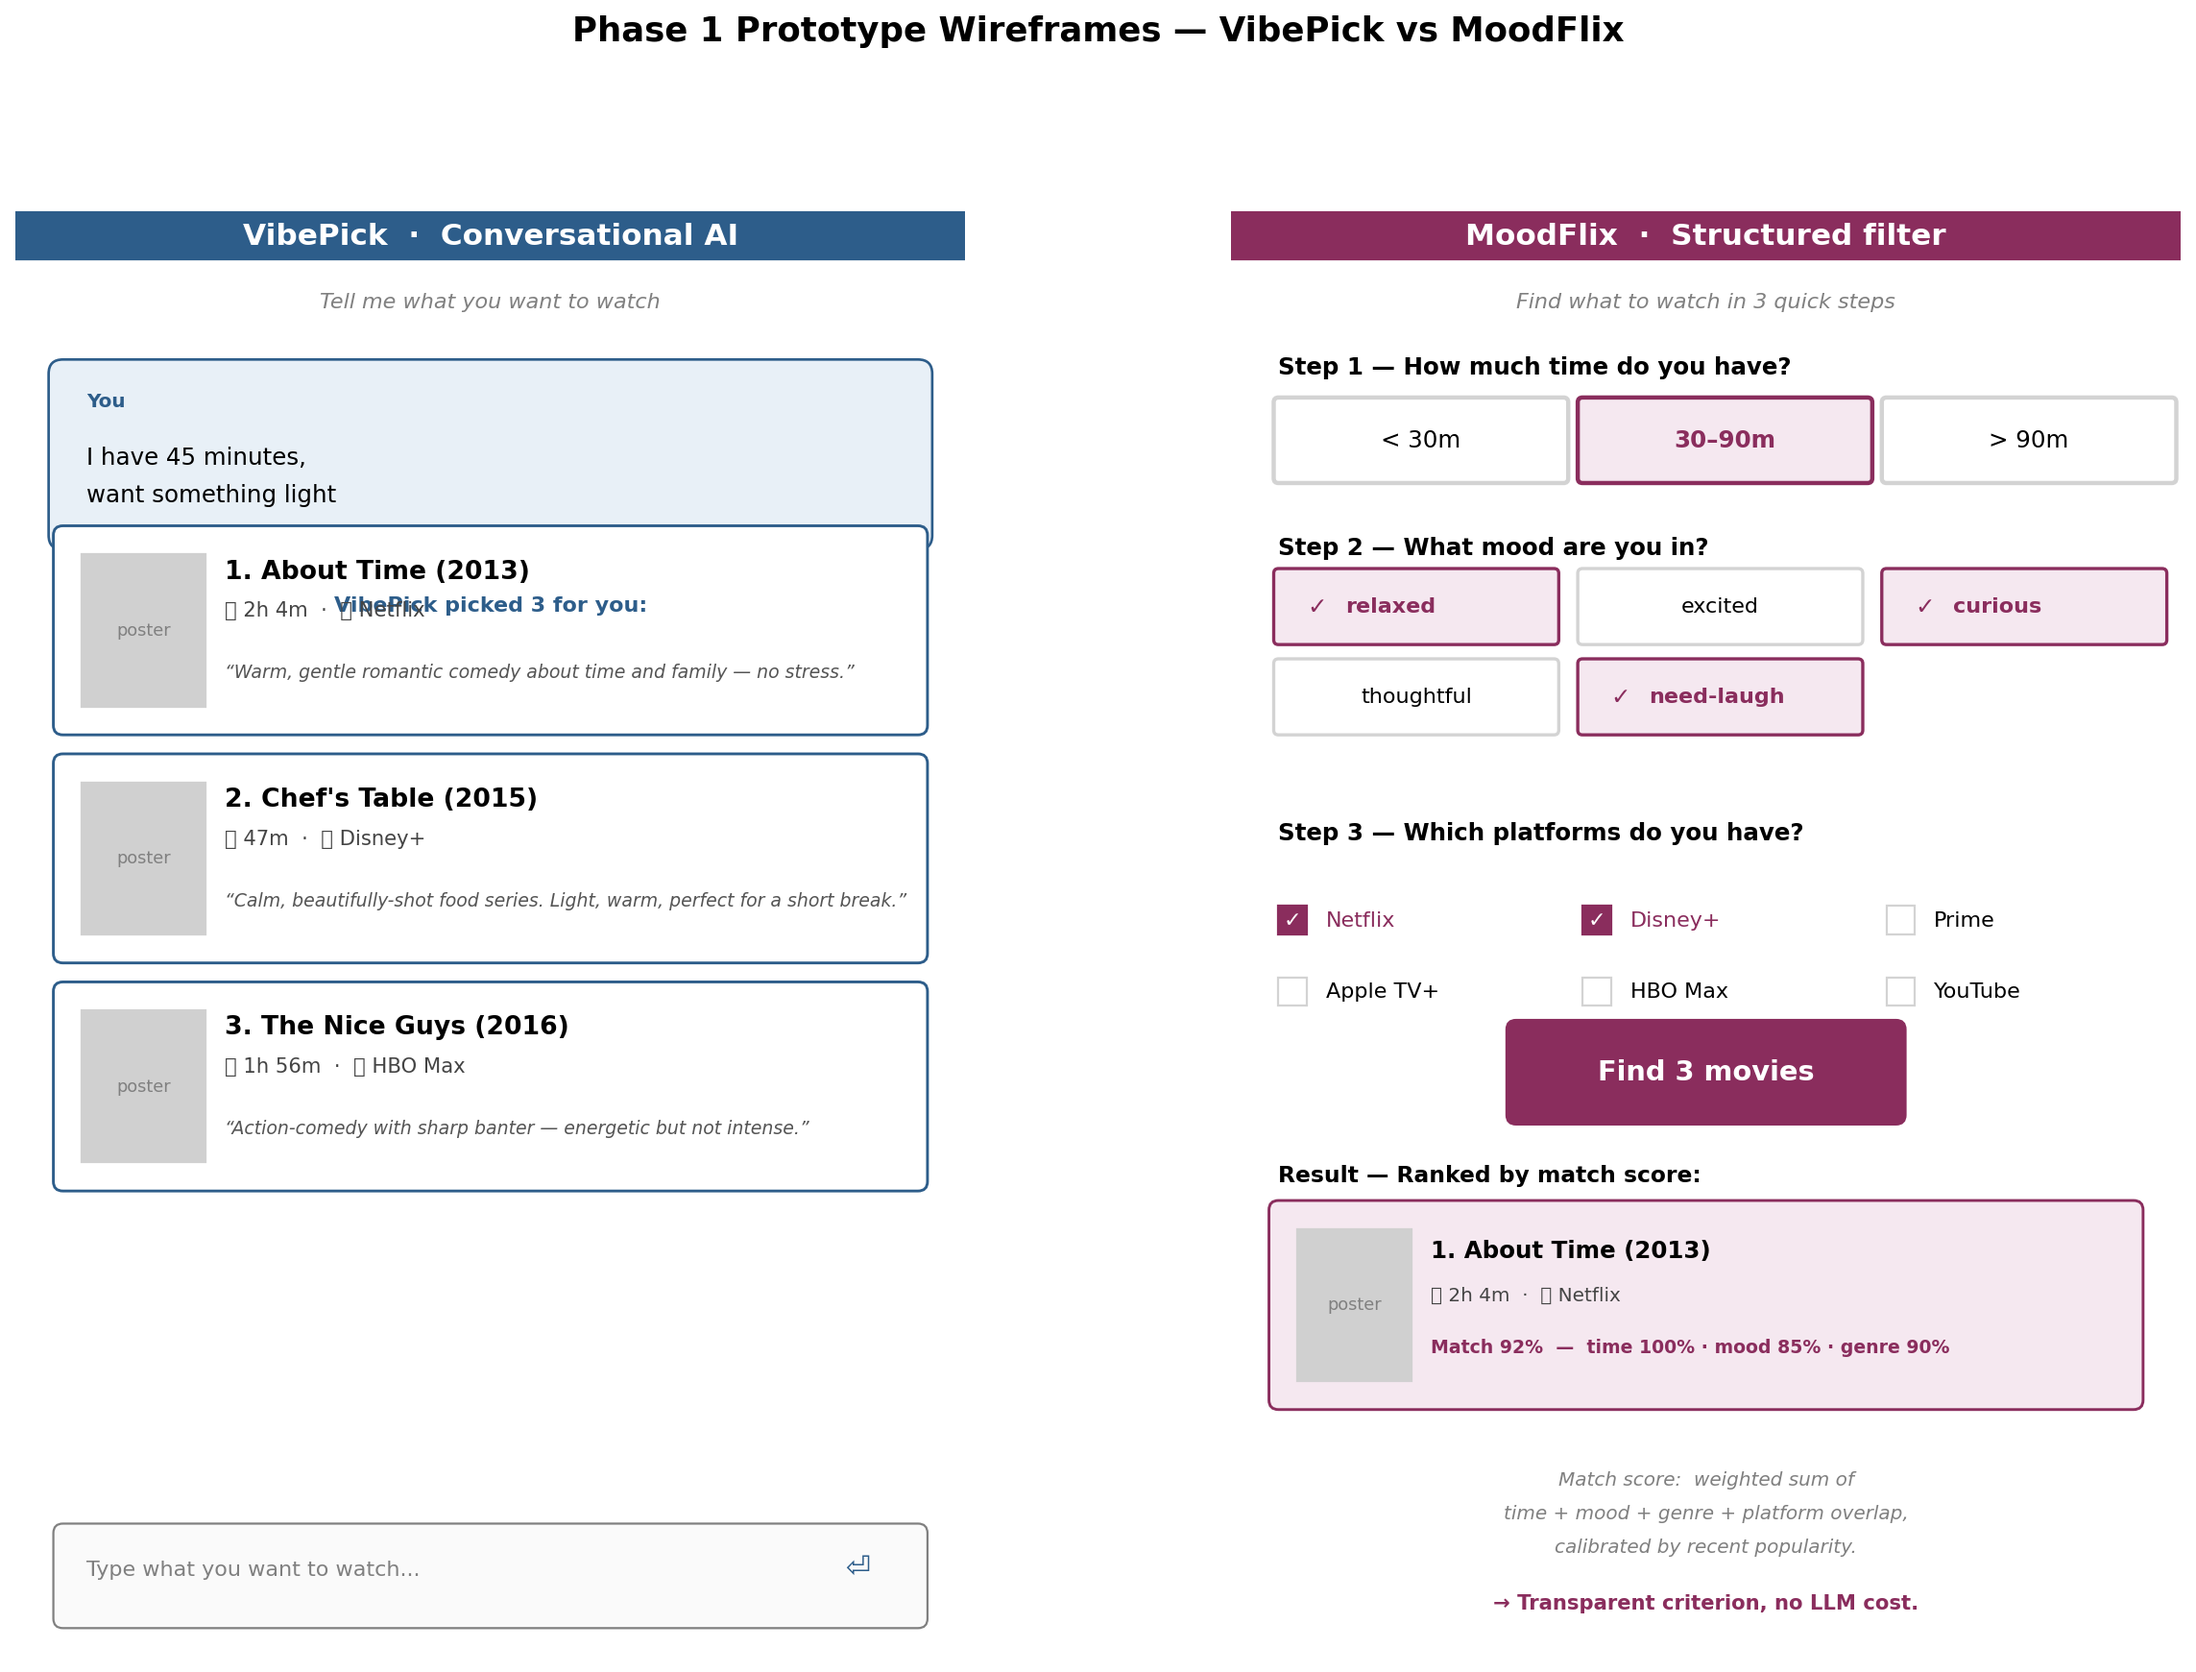
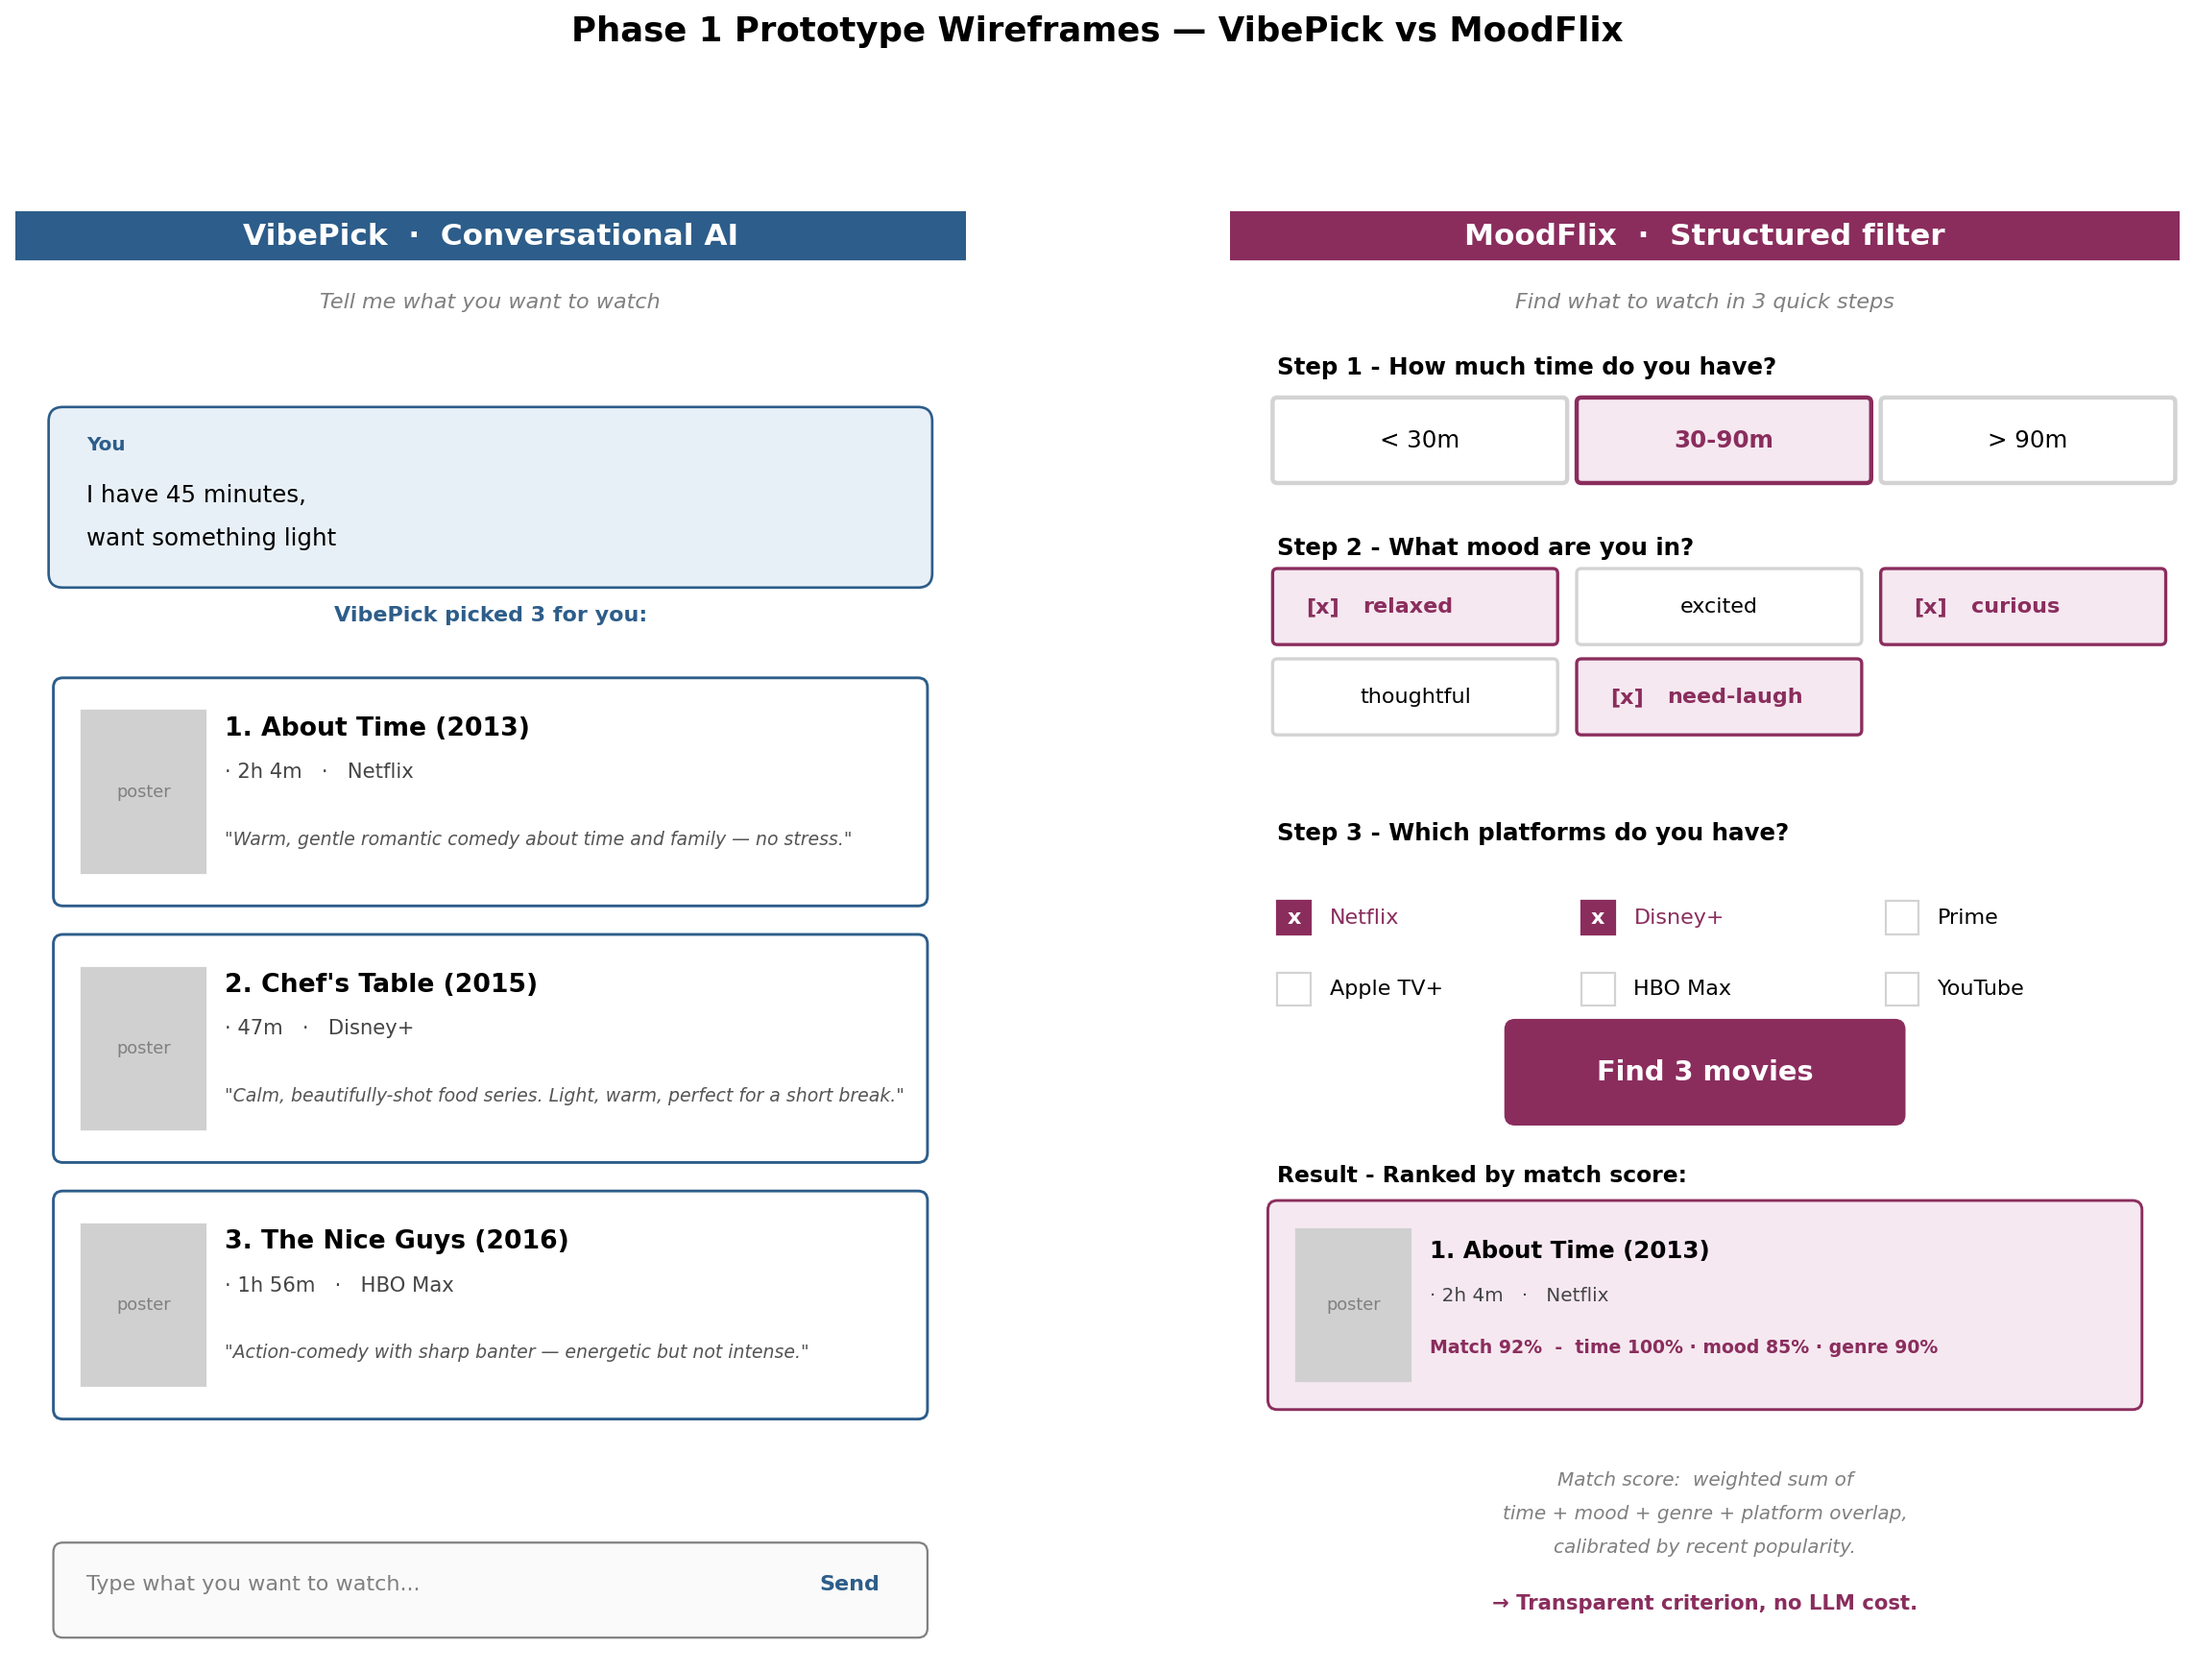
Day 2: fix wireframe v3 — move 'picked 3 for you' header above card 1
v2 still had the header overlapping the first recommendation card. v3
moves the header up (y=10.9, just below the chat bubble) and pushes
all three cards down by 1.3 units to give the header its own row.

diff --git a/scripts/draw_wireframes.py b/scripts/draw_wireframes.py
@@ -1,16 +1,17 @@
-"""Generate the VibePick vs MoodFlix wireframe comparison PNG for the repo."""
+"""Generate the VibePick vs MoodFlix wireframe comparison PNG (v2 — fixed)."""
 import os
 import matplotlib.pyplot as plt
 import matplotlib.patches as patches
 
-os.makedirs("/Users/apple/Documents/AIDM7920-HanYushan-MediaDiscovery/docs/wireframes", exist_ok=True)
+OUT_DIR = "/Users/apple/Documents/AIDM7920-HanYushan-MediaDiscovery/docs/wireframes"
+os.makedirs(OUT_DIR, exist_ok=True)
 
 fig, axes = plt.subplots(1, 2, figsize=(16, 11))
 fig.suptitle("Phase 1 Prototype Wireframes — VibePick vs MoodFlix",
              fontsize=16, fontweight="bold", y=0.985)
 
 # ============================================================
-# LEFT: VibePick — Conversational AI
+# LEFT: VibePick
 # ============================================================
 ax = axes[0]
 ax.set_xlim(0, 10)
@@ -25,42 +26,41 @@ ax.text(5, 14.95, "VibePick  ·  Conversational AI", ha="center", va="center",
 ax.text(5, 14.2, "Tell me what you want to watch", ha="center",
         fontsize=10, color="gray", style="italic")
 
-# User chat bubble
-ax.add_patch(patches.FancyBboxPatch((0.5, 11.8), 9, 1.7, boxstyle="round,pad=0.15",
+# User chat bubble (y range 11.5 - 13.2)
+ax.add_patch(patches.FancyBboxPatch((0.5, 11.4), 9, 1.6, boxstyle="round,pad=0.15",
                                      facecolor="#E8F0F7", edgecolor="#2D5D8A", linewidth=1.2))
-ax.text(0.75, 13.15, "You", fontsize=9, color="#2D5D8A", fontweight="bold")
-ax.text(0.75, 12.55, "I have 45 minutes,", fontsize=11)
-ax.text(0.75, 12.15, "want something light", fontsize=11)
+ax.text(0.75, 12.7, "You", fontsize=9, color="#2D5D8A", fontweight="bold")
+ax.text(0.75, 12.15, "I have 45 minutes,", fontsize=11)
+ax.text(0.75, 11.7, "want something light", fontsize=11)
 
-# AI response header
-ax.text(5, 11.0, "VibePick picked 3 for you:", ha="center",
+# 3 result cards — start at y=10.5 (well below the chat bubble)
+ax.text(5, 10.9, "VibePick picked 3 for you:", ha="center",
         fontsize=10, fontweight="bold", color="#2D5D8A")
 
-# 3 result cards
-for i, (title, year, runtime, platform, blurb) in enumerate([
-    ("About Time", 2013, "2h 4m",  "Netflix",   "Warm, gentle romantic comedy about time and family — no stress."),
-    ("Chef's Table", 2015, "47m",   "Disney+",  "Calm, beautifully-shot food series. Light, warm, perfect for a short break."),
-    ("The Nice Guys", 2016, "1h 56m", "HBO Max", "Action-comedy with sharp banter — energetic but not intense."),
-]):
-    y = 9.8 - i*2.4
-    ax.add_patch(patches.FancyBboxPatch((0.5, y), 9, 2.0, boxstyle="round,pad=0.1",
+movies_left = [
+    ("About Time", "2013", "2h 4m",  "Netflix",   "Warm, gentle romantic comedy about time and family — no stress."),
+    ("Chef's Table", "2015", "47m",   "Disney+",  "Calm, beautifully-shot food series. Light, warm, perfect for a short break."),
+    ("The Nice Guys", "2016", "1h 56m", "HBO Max", "Action-comedy with sharp banter — energetic but not intense."),
+]
+for i, (title, year, runtime, platform, blurb) in enumerate(movies_left):
+    y = 8.0 - i*2.7  # pushed down to clear the 'picked 3 for you' header
+    ax.add_patch(patches.FancyBboxPatch((0.5, y), 9, 2.2, boxstyle="round,pad=0.1",
                                          facecolor="white", edgecolor="#2D5D8A", linewidth=1.3))
-    # Movie poster placeholder
-    ax.add_patch(patches.Rectangle((0.7, y+0.2), 1.3, 1.6, color="#D0D0D0"))
-    ax.text(1.35, y+1.0, "poster", ha="center", va="center", fontsize=8, color="gray")
-    # Title
-    ax.text(2.2, y+1.55, f"{i+1}. {title} ({year})", fontsize=12, fontweight="bold")
-    ax.text(2.2, y+1.15, f"⏱ {runtime}  ·  💚 {platform}", fontsize=9.5, color="#444")
-    ax.text(2.2, y+0.5, f"“{blurb}”", fontsize=8.5, color="#555", style="italic", wrap=True)
+    ax.add_patch(patches.Rectangle((0.7, y+0.25), 1.3, 1.7, color="#D0D0D0"))
+    ax.text(1.35, y+1.1, "poster", ha="center", va="center", fontsize=8, color="gray")
+    ax.text(2.2, y+1.7, f"{i+1}. {title} ({year})", fontsize=12, fontweight="bold")
+    # Plain ASCII: no ⏱ / no 💚 — use middle dot
+    ax.text(2.2, y+1.25, f"· {runtime}   ·   {platform}", fontsize=9.5, color="#444")
+    ax.text(2.2, y+0.55, f"\"{blurb}\"", fontsize=8.5, color="#555", style="italic")
 
 # Input box
-ax.add_patch(patches.FancyBboxPatch((0.5, 0.4), 9, 0.9, boxstyle="round,pad=0.1",
+ax.add_patch(patches.FancyBboxPatch((0.5, 0.3), 9, 0.8, boxstyle="round,pad=0.1",
                                      facecolor="#FAFAFA", edgecolor="gray", linewidth=1))
-ax.text(0.75, 0.85, "Type what you want to watch...", fontsize=10, color="gray")
-ax.text(9.0, 0.85, "⏎", ha="right", fontsize=14, color="#2D5D8A")
+ax.text(0.75, 0.7, "Type what you want to watch...", fontsize=10, color="gray")
+ax.text(9.1, 0.7, "Send", ha="right", fontsize=10, color="#2D5D8A", fontweight="bold")
 
 # ============================================================
-# RIGHT: MoodFlix — Structured filter
+# RIGHT: MoodFlix
 # ============================================================
 ax = axes[1]
 ax.set_xlim(0, 10)
@@ -68,7 +68,6 @@ ax.set_ylim(0, 16)
 ax.set_aspect("equal")
 ax.axis("off")
 
-# Title strip
 ax.add_patch(patches.Rectangle((0, 14.7), 10, 0.5, color="#8A2D5D"))
 ax.text(5, 14.95, "MoodFlix  ·  Structured filter", ha="center", va="center",
         fontsize=14, fontweight="bold", color="white")
@@ -76,8 +75,8 @@ ax.text(5, 14.2, "Find what to watch in 3 quick steps", ha="center",
         fontsize=10, color="gray", style="italic")
 
 # Step 1 — Time bucket
-ax.text(0.5, 13.5, "Step 1 — How much time do you have?", fontsize=11, fontweight="bold")
-for i, (label, selected) in enumerate([("< 30m", False), ("30–90m", True), ("> 90m", False)]):
+ax.text(0.5, 13.5, "Step 1 - How much time do you have?", fontsize=11, fontweight="bold")
+for i, (label, selected) in enumerate([("< 30m", False), ("30-90m", True), ("> 90m", False)]):
     x = 0.5 + i*3.2
     fc = "#F5E8F0" if selected else "white"
     edge = "#8A2D5D" if selected else "lightgray"
@@ -89,7 +88,7 @@ for i, (label, selected) in enumerate([("< 30m", False), ("30–90m", True), (">
             color=txt_color, fontweight=wt)
 
 # Step 2 — Mood tags
-ax.text(0.5, 11.6, "Step 2 — What mood are you in?", fontsize=11, fontweight="bold")
+ax.text(0.5, 11.6, "Step 2 - What mood are you in?", fontsize=11, fontweight="bold")
 moods = [("relaxed", True), ("excited", False), ("curious", True),
          ("thoughtful", False), ("need-laugh", True)]
 for i, (mood, sel) in enumerate(moods):
@@ -100,26 +99,26 @@ for i, (mood, sel) in enumerate(moods):
     ax.add_patch(patches.FancyBboxPatch((x, y), 2.9, 0.7, boxstyle="round,pad=0.05",
                                          facecolor=fc, edgecolor=edge, linewidth=1.5))
     if sel:
-        ax.text(x+0.3, y+0.35, "✓", fontsize=11, color="#8A2D5D", fontweight="bold",
-                va="center")
-    ax.text(x+0.7 if sel else x+1.45, y+0.35, mood, va="center", ha="left" if sel else "center",
-            fontsize=10, color="#8A2D5D" if sel else "black", fontweight="bold" if sel else "normal")
+        ax.text(x+0.3, y+0.35, "[x]", fontsize=10, color="#8A2D5D", fontweight="bold", va="center")
+    ax.text(x+0.9 if sel else x+1.45, y+0.35, mood, va="center",
+            ha="left" if sel else "center", fontsize=10,
+            color="#8A2D5D" if sel else "black", fontweight="bold" if sel else "normal")
 
 # Step 3 — Platform toggles
-ax.text(0.5, 8.6, "Step 3 — Which platforms do you have?", fontsize=11, fontweight="bold")
+ax.text(0.5, 8.6, "Step 3 - Which platforms do you have?", fontsize=11, fontweight="bold")
 platforms = [("Netflix", True), ("Disney+", True), ("Prime", False),
              ("Apple TV+", False), ("HBO Max", False), ("YouTube", False)]
 for i, (p, sel) in enumerate(platforms):
     x = 0.5 + (i % 3) * 3.2
     y = 7.5 - (i // 3) * 0.75
-    # checkbox
     if sel:
-        ax.add_patch(patches.Rectangle((x, y+0.1), 0.3, 0.3, facecolor="#8A2D5D", edgecolor="#8A2D5D"))
-        ax.text(x+0.15, y+0.25, "✓", ha="center", va="center", fontsize=10,
+        ax.add_patch(patches.Rectangle((x, y+0.1), 0.35, 0.35, facecolor="#8A2D5D", edgecolor="#8A2D5D"))
+        ax.text(x+0.175, y+0.275, "x", ha="center", va="center", fontsize=10,
                 color="white", fontweight="bold")
     else:
-        ax.add_patch(patches.Rectangle((x, y+0.1), 0.3, 0.3, facecolor="white", edgecolor="lightgray"))
-    ax.text(x+0.5, y+0.25, p, va="center", fontsize=10, color="#8A2D5D" if sel else "black")
+        ax.add_patch(patches.Rectangle((x, y+0.1), 0.35, 0.35, facecolor="white", edgecolor="lightgray"))
+    ax.text(x+0.55, y+0.275, p, va="center", fontsize=10,
+            color="#8A2D5D" if sel else "black")
 
 # Submit button
 ax.add_patch(patches.FancyBboxPatch((3, 5.7), 4, 0.9, boxstyle="round,pad=0.1",
@@ -128,17 +127,16 @@ ax.text(5, 6.15, "Find 3 movies", ha="center", va="center", fontsize=13,
         color="white", fontweight="bold")
 
 # Result preview
-ax.text(0.5, 5.0, "Result — Ranked by match score:", fontsize=10.5, fontweight="bold")
+ax.text(0.5, 5.0, "Result - Ranked by match score:", fontsize=10.5, fontweight="bold")
 ax.add_patch(patches.FancyBboxPatch((0.5, 2.7), 9, 2.0, boxstyle="round,pad=0.1",
                                      facecolor="#F5E8F0", edgecolor="#8A2D5D", linewidth=1.3))
 ax.add_patch(patches.Rectangle((0.7, 2.9), 1.2, 1.6, color="#D0D0D0"))
 ax.text(1.3, 3.7, "poster", ha="center", va="center", fontsize=8, color="gray")
 ax.text(2.1, 4.2, "1. About Time (2013)", fontsize=11, fontweight="bold")
-ax.text(2.1, 3.75, "⏱ 2h 4m  ·  💚 Netflix", fontsize=9, color="#444")
-ax.text(2.1, 3.2, "Match 92%  —  time 100% · mood 85% · genre 90%", fontsize=8.5,
-        color="#8A2D5D", fontweight="bold")
+ax.text(2.1, 3.75, "· 2h 4m   ·   Netflix", fontsize=9, color="#444")
+ax.text(2.1, 3.2, "Match 92%  -  time 100% · mood 85% · genre 90%",
+        fontsize=8.5, color="#8A2D5D", fontweight="bold")
 
-# Comparison note
 ax.text(5, 1.8, "Match score:  weighted sum of", ha="center", fontsize=9, color="gray", style="italic")
 ax.text(5, 1.45, "time + mood + genre + platform overlap,", ha="center", fontsize=9, color="gray", style="italic")
 ax.text(5, 1.1, "calibrated by recent popularity.", ha="center", fontsize=9, color="gray", style="italic")
@@ -146,6 +144,6 @@ ax.text(5, 0.5, "→ Transparent criterion, no LLM cost.", ha="center",
         fontsize=9.5, color="#8A2D5D", fontweight="bold")
 
 plt.tight_layout(rect=(0, 0, 1, 0.96))
-out = "/Users/apple/Documents/AIDM7920-HanYushan-MediaDiscovery/docs/wireframes/comparison.png"
+out = os.path.join(OUT_DIR, "comparison.png")
 plt.savefig(out, dpi=160, bbox_inches="tight", facecolor="white")
 print(f"Saved {out}")
